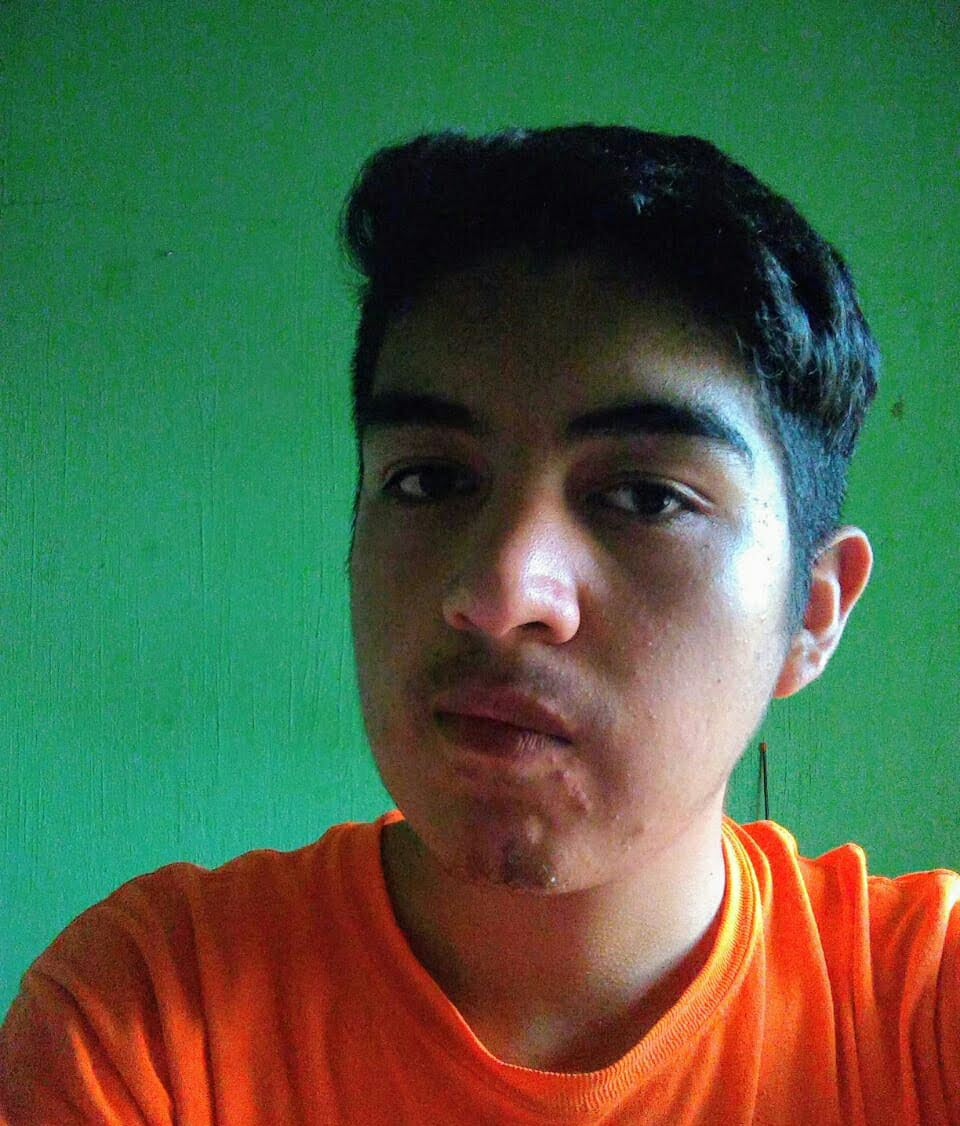
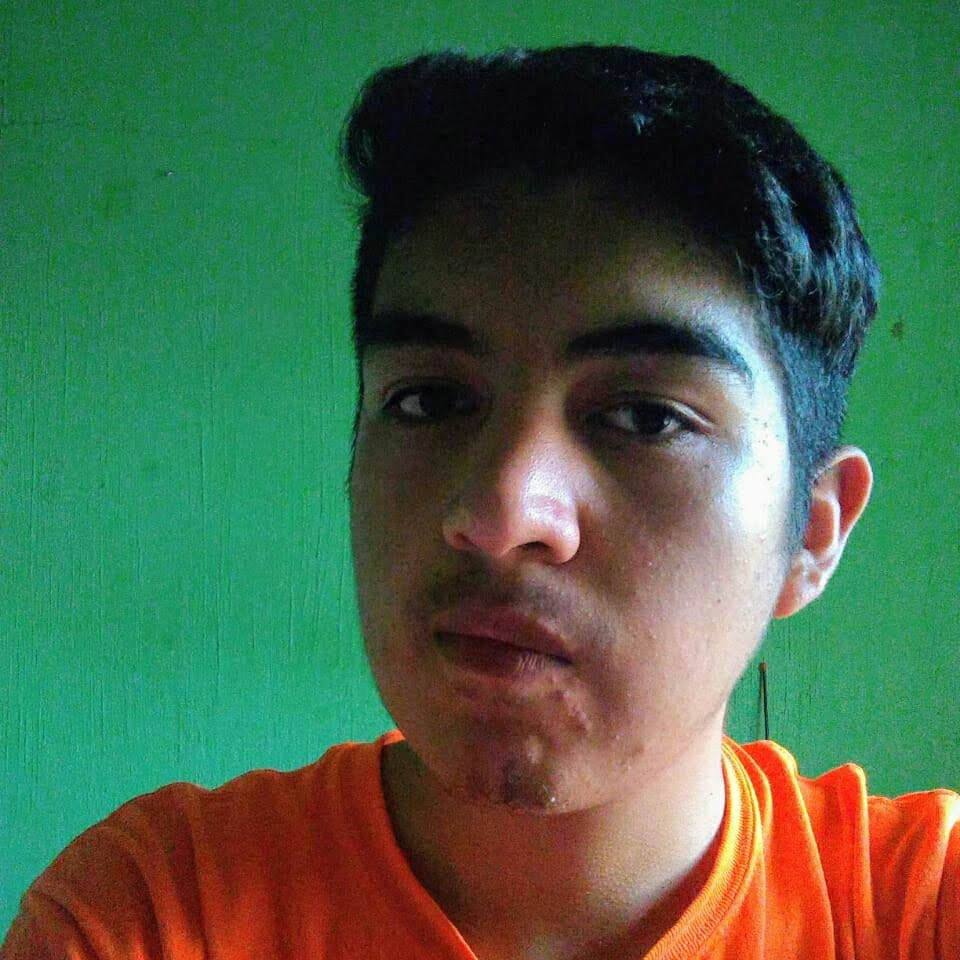
Seccion sobre mi estilizada
Cambio de relacion de la foto a cuadrado, rodeada de bordes, posicionada
entre el limite de la seccion del texto, que tambien cuenta con un
boton.

diff --git a/css/estilos.css b/css/estilos.css
@@ -28,6 +28,9 @@ ul{
 a{
     text-decoration: none;
 }
+p{
+    margin: 0;
+}
 /* -- header -- */
 /* banner*/
 .header{
@@ -158,6 +161,9 @@ a{
     color: var(--tin);
 }
 /* info principal */
+.main-info{
+    margin-bottom: 5em;
+}
 .main-info__container{
     overflow: hidden;
 }
@@ -169,6 +175,7 @@ a{
 .main-info__title{
     font-size: 2rem;
     color: #000;
+    margin-bottom: 0.75em;
 }
 .main-info__img{
     float: right;
@@ -215,4 +222,60 @@ a{
     padding-top: 10px;
     margin-top: 20px;
     border-top: 1px solid var(--tin);
+}
+/* sobre mi */
+.about-me{
+    overflow: hidden;
+    margin-bottom: 5em;
+}
+.about-me__title{
+    font-size: 1.5rem;
+    color: #000;
+    margin-bottom: 1em;
+}
+.about-me__photo{
+    width: 7.5%;
+    float: left;
+    position: relative;
+}
+.about-me__photo-jpg{
+    width: 150px;
+    border-radius: 50%;
+    border: 1px solid #FFF;
+    box-shadow: 0 0 0 5px var(--principal);
+    position: absolute;
+    left: 5px;
+    top: 25px;
+}
+.about-me__photo-jpg:hover{
+    box-shadow: 0 0 0 5px var(--secundario);
+}
+.about-me__text{
+    line-height: 1.5em;
+    background-color: #f1f1f1;
+    border-radius: 10px;
+    float: right;
+    width: 92.5%;
+    margin: 0;
+}
+.about-me__text-p{
+    padding: 20px 20px 20px 100px;
+}
+.about-me__button{
+    background-color: var(--principal);
+    border: none;
+    border-radius: 5px;
+    display: block;
+    margin: 0 auto 20px;
+    padding: 0;
+}
+.about-me__button:hover{
+    background-color: var(--secundario);
+}
+.about-me__button-link{
+    color: #FFF;
+    font-size: 0.9em;
+    font-weight: 500;
+    display: block;
+    padding: 10px;
 }

diff --git a/index.html b/index.html
@@ -67,10 +67,12 @@
         </section>
         <section class="about-me">
             <h2 class="about-me__title">Sobre mí</h2>
-            <div class="about-me__photo"><img src="img/foto1.jpg" alt="fotografía"></div>
+            <div class="about-me__photo"><img src="img/foto.jpg" alt="fotografía" class="about-me__photo-jpg"></div>
             <div class="about-me__text">
-                <p>Lorem ipsum dolor sit amet consectetur adipisicing elit. Laborum, perferendis consequuntur nam adipisci, sint placeat a illo quisquam cum excepturi consequatur dolores ratione asperiores quam modi quis omnis? Facilis, saepe.</p>
-                <a class="about-me__button button"href="#">Lo que me gusta</a>
+                <p class="about-me__text-p">Lorem ipsum dolor sit amet consectetur adipisicing elit. Facilis adipisci, nulla quod omnis optio cum impedit aut. Aliquam modi doloribus repellat unde, inventore tempora illo magnam expedita animi ex totam ab dolorum? Nostrum, delectus error dicta veniam nobis nesciunt molestiae explicabo sunt mollitia maiores quibusdam placeat asperiores, debitis nisi odio, libero rerum! Optio minima alias quasi, odit libero molestiae unde.</p>
+                <button class="about-me__button">
+                    <a class="about-me__button-link" href="#">Lo que me gusta</a>
+                </button>
             </div>
         </section>
         <section class="contact">
